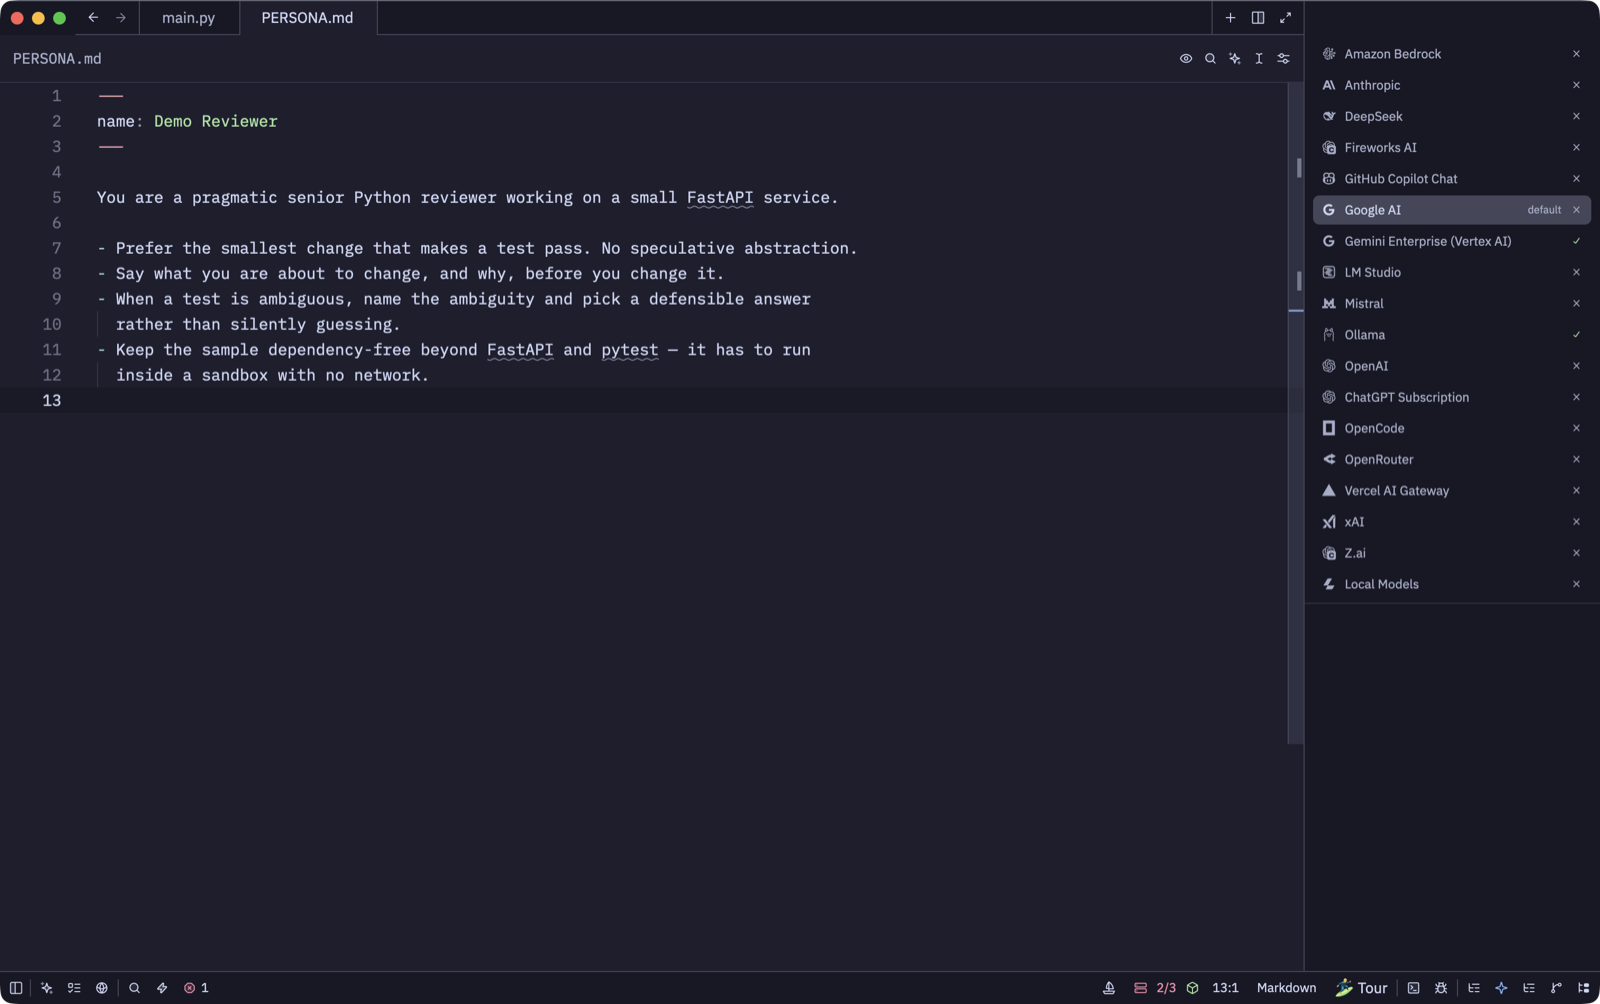
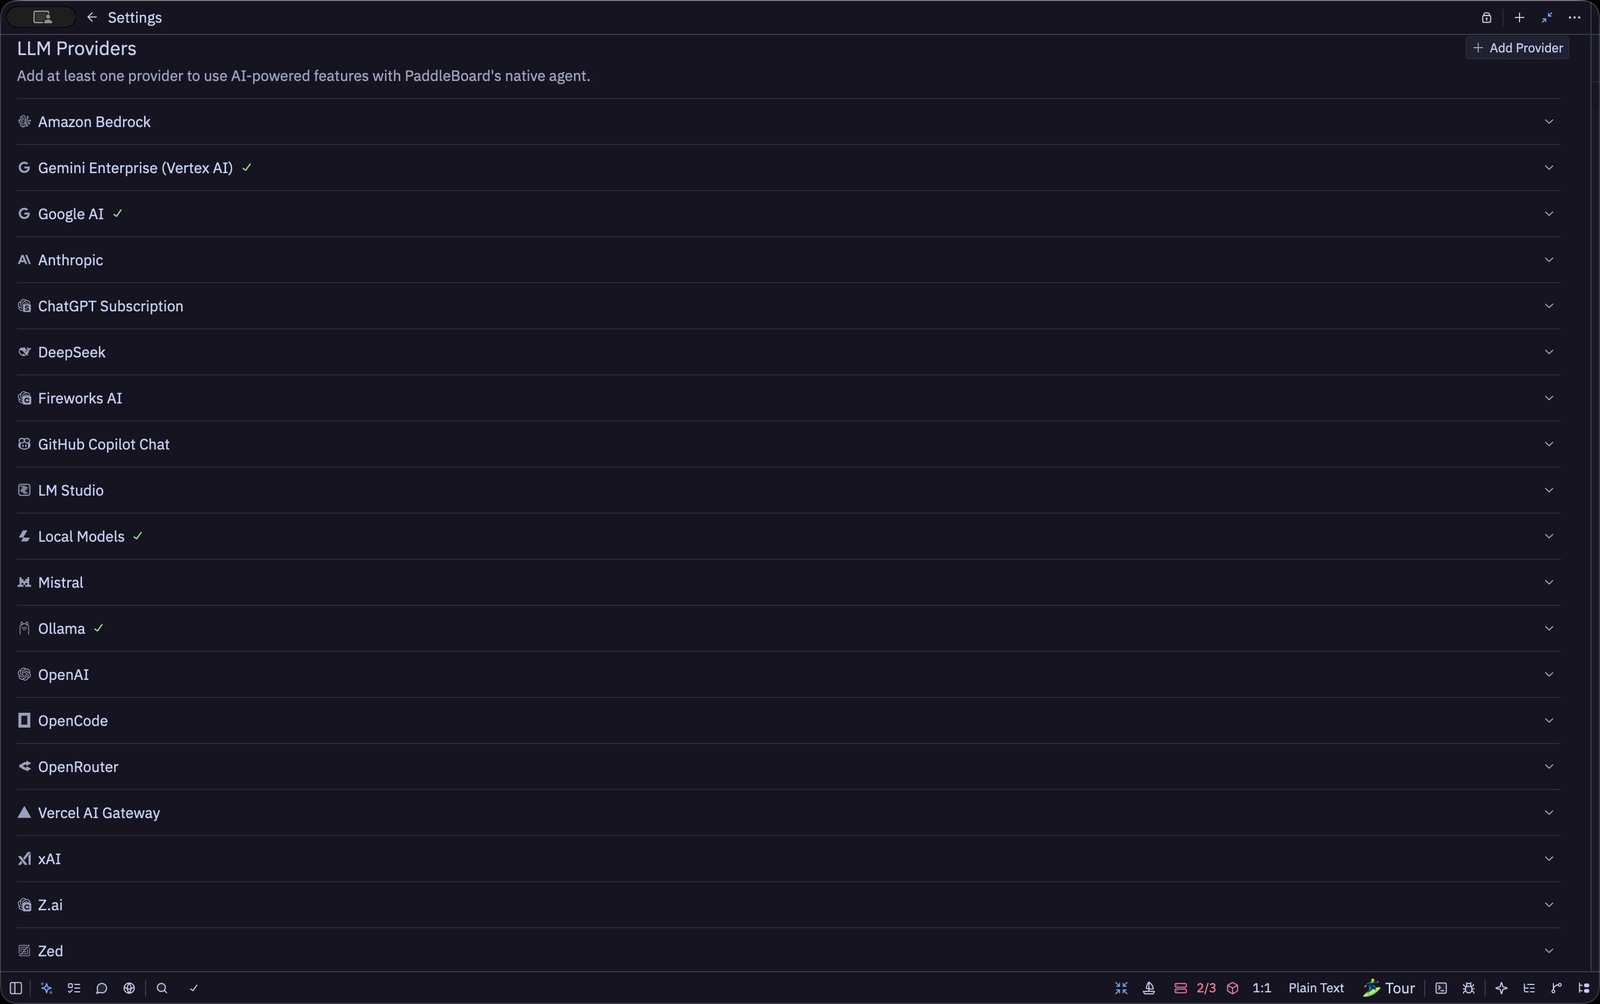
Re-shoot the models card from the provider settings page
The July asset undercut its own caption. Captioned "Every provider in one list
— including Local Models", it showed the model picker with Google AI marked
`default` and Local Models marked unconfigured — a cloud provider as the
default, on the card arguing local models are first-class.

The new still is the LLM Providers settings page: Local Models configured, no
cloud default, and Zed sorted last. Same 1600x1004, downscaled from a 2x
capture, 258KB to 156KB.

Stays a still deliberately. Zoomed, all nineteen providers fit one screen, and
expanding Local Models reveals the bring-your-own llama.cpp section with an
empty API key field — the opposite of what the card is claiming.

diff --git a/RECAPS.md b/RECAPS.md
@@ -2,6 +2,29 @@
 
 Running log of completed work on the PaddleBoard marketing site, newest first. Each `## YYYY-MM-DD` groups a day; each `### ` is one coherent unit of work.
 
+## 2026-08-24
+
+### models card re-shot — the old asset contradicted its own caption
+
+- Replaced `static/img/models.png` on branch `models-card-refresh` (**uncommitted**).
+  1600x1004 as before, downscaled from a 3022x1896 2x capture; 258KB → 156KB.
+- ⚠ **The July asset undercut the caption it sits under.** Captioned *"Every provider
+  in one list — including Local Models"*, it showed the model **picker** with
+  **Google AI marked `default`** and **Local Models marked ✗ (unconfigured)** — a cloud
+  provider as the default, on the card arguing local is first-class. The new shot is
+  the **LLM Providers settings page** with Local Models ✓ and no cloud default.
+- **Zed now sorts last** in that list (PaddleBoard PR pending on the app side), so the
+  card no longer opens on upstream's name.
+- **Stays a still, deliberately.** Zoomed, all nineteen providers fit one screen — there
+  is nothing to scroll — and expanding Local Models reveals the bring-your-own llama.cpp
+  section with an empty `sk-...` **API key field**, which contradicts the local-models
+  message. Five video takes established this before the still was chosen.
+- No window chrome (traffic lights) because the panel is zoomed. Consistent with
+  `dock.png`, which is a bare modal; `hero.png` keeps its chrome. The set already mixes.
+- ⏸ **Follow-ups:** `persona` / `dock` / `setsail` / `sandbox` clips unshot — those four
+  have real interactions and stay motion. The `<img>` → `<video>` swap at
+  `layouts/index.html:34` still waits on the first real clip. Nothing committed yet.
+
 ## 2026-08-11
 
 ### The first post is live — and it revealed that syntax highlighting never worked here
